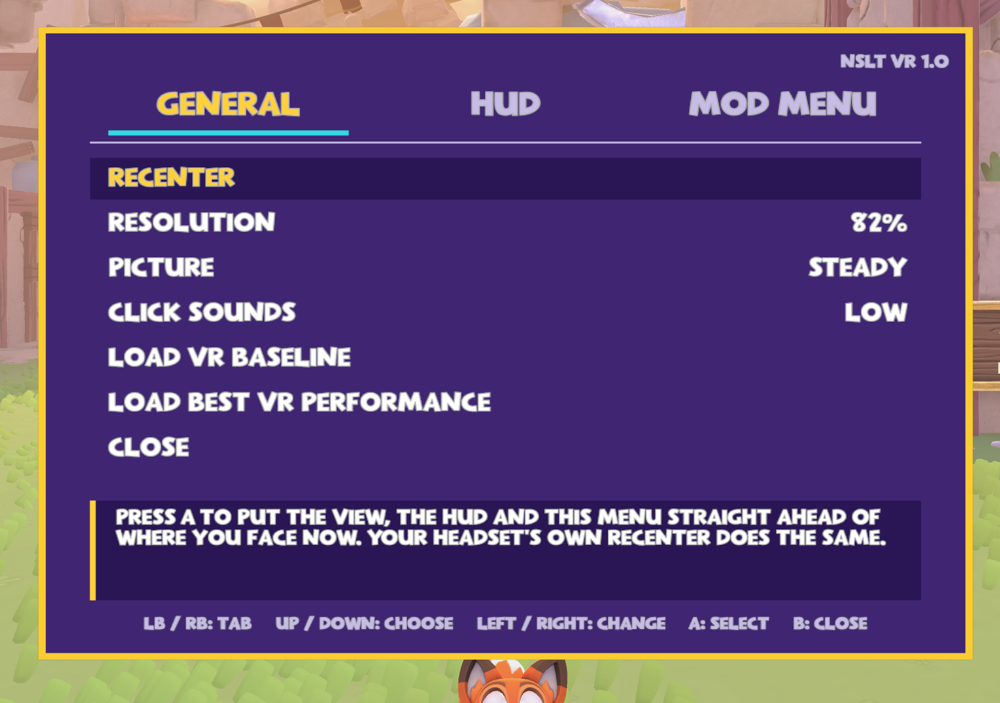
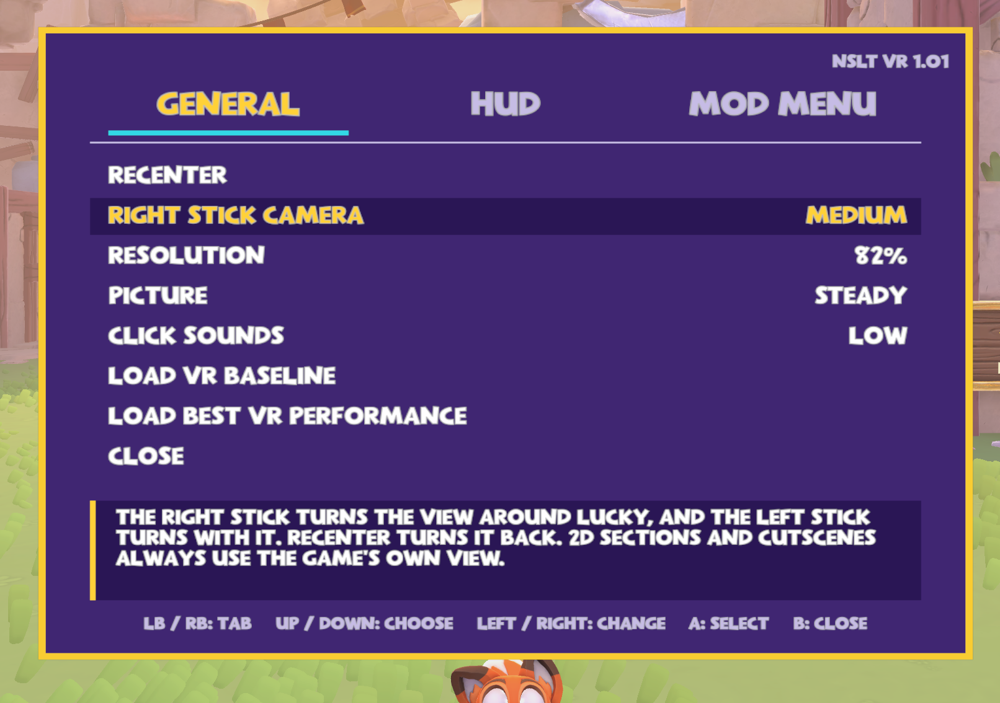
NSLTVR 1.01: right stick camera turns the view around Lucky (render-time orbit, left stick turned to match), menu row Off/Slow/Medium/Fast, default Medium; 8 menu rows; verified by script on RigB, not in a headset

diff --git a/src/Plugin.cs b/src/Plugin.cs
@@ -15,10 +15,10 @@ namespace NSLTVR
     // NSLTVR build 1 (Phase 1): New Super Lucky's Tale on the VR camera rig left over from Lucky's Tale VR, both eyes from
     // one game tick through OpenXR, the HUD on its own panel, and a basic in-headset menu. Skeleton from CupheadVR (MIT,
     // scubasteve2365). Lab probes are read from vrlab_command.txt in the game folder while Lab.Commands is on.
-    [BepInPlugin("com.scubasteve2365.nsltvr", "NSLTVR", "1.0.0")]
+    [BepInPlugin("com.scubasteve2365.nsltvr", "NSLTVR", "1.0.1")]
     public class Plugin : BaseUnityPlugin
     {
-        internal const string Version = "1.0";
+        internal const string Version = "1.01";
         internal static BepInEx.Logging.ManualLogSource Log;
         internal static ConfigEntry<string> CameraRig;
         internal static Plugin Instance;
@@ -45,7 +45,7 @@ namespace NSLTVR
             forcePreset = Config.Bind("Lab", "ForcePreset", "", "Lab only: put the game on this graphics preset at start (graphics_low, graphics_medium, ...). Empty leaves your settings alone.");
             ipdScale = Config.Bind("Lab", "IpdOverride", 0f, "0 uses the game's own camera scale (zone IPDScale). Above 0, use this scale instead.");
             autoStart = Config.Bind("VR", "AutoStart", true, "Start VR by itself once the game is running.");
-            turnSpeed = Config.Bind("VR", "RightStickTurn", 0f, "Right stick turns the camera around Lucky, in degrees a second at full tilt. 0 is off (default): the VR camera was not made to turn and pulled far away when it did (build 4).");
+            turnSpeed = Config.Bind("VR", "RightStickCamera", 90f, "Right stick turns the view around Lucky, in degrees a second at full tilt. 0 is off. 60 slow, 90 medium, 135 fast.");
             CameraRig = Config.Bind("VR", "CameraRig", "VR", "VR: the camera rig left over from Lucky's Tale VR. Flat: the game's normal camera. Read at game start.");
             resolution = Config.Bind("VR", "Resolution", 1.0f, "Eye size as a share of what the headset asks for. 1 is 100%. Used from the next start.");
             bloomOff = Config.Bind("Picture", "BloomOff", true, "Turn off the game's bloom and god rays, which look different in each eye.");
@@ -113,6 +113,8 @@ namespace NSLTVR
                 Rig.Begin();
             }
             PreferPadPatch.Tick();
+            CameraOrbit.MenuOpen = Menu != null && Menu.IsOpen;
+            CameraOrbit.Tick();
             if (Time.frameCount >= nextSlowCheck)
             {
                 nextSlowCheck = Time.frameCount + 120;
@@ -138,7 +140,8 @@ namespace NSLTVR
             Rig.HudWidth = hudWidth.Value; Rig.HudX = hudX.Value; Rig.HudY = hudY.Value; Rig.HudDistance = hudDistance.Value;
             Rig.MenuWidth = menuWidth.Value; Rig.MenuX = menuX.Value; Rig.MenuY = menuY.Value; Rig.MenuDistance = menuDistance.Value;
             Effects.BloomOff = bloomOff.Value;
-            RightStickTurnPatch.DegreesPerSecond = turnSpeed.Value;
+            CameraOrbit.DegreesPerSecond = turnSpeed.Value;
+            if (turnSpeed.Value <= 0f) CameraOrbit.Reset();
             Rig.PictureMode = picture.Value.Equals("Steady", StringComparison.OrdinalIgnoreCase) ? 1 : picture.Value.Equals("Panel", StringComparison.OrdinalIgnoreCase) ? 2 : 0;
         }
 
@@ -163,6 +166,9 @@ namespace NSLTVR
         }
 
         static readonly string[] HudModes = { "Fixed", "FollowsHead", "Hidden" };
+        static readonly float[] TurnSpeeds = { 0f, 60f, 90f, 135f };
+        static float TurnStep(float v) { float best = TurnSpeeds[0]; foreach (var t in TurnSpeeds) if (Mathf.Abs(t - v) < Mathf.Abs(best - v)) best = t; return best; }
+        static string TurnName(float v) { float t = TurnStep(v); return t <= 0f ? "Off" : t <= 60f ? "Slow" : t <= 90f ? "Medium" : "Fast"; }
         string armed, lastSettingsResult;
         float armedUntil;
 
@@ -196,8 +202,16 @@ namespace NSLTVR
         void BuildMenu()
         {
             var general = new MenuUI.Tab { Name = "General" };
-            general.Rows.Add(new MenuUI.Row { Label = "Recenter", Press = () => { Rig.Recenter(); Log.LogInfo("MENU recenter"); },
-                Help = () => "Press A to put the view, the HUD and this menu straight ahead of where you face now. Your headset's own recenter does the same." });
+            general.Rows.Add(new MenuUI.Row { Label = "Recenter", Press = () => { Rig.Recenter(); CameraOrbit.Reset(); Log.LogInfo("MENU recenter"); },
+                Help = () => "Press A to put the view, the HUD and this menu straight ahead of where you face now, and turn the camera back to the game's own view. Your headset's own recenter does the same." });
+            general.Rows.Add(new MenuUI.Row
+            {
+                Label = "Right stick camera",
+                Value = () => TurnName(turnSpeed.Value),
+                Change = dir => { int i = Mathf.Clamp(Array.IndexOf(TurnSpeeds, TurnStep(turnSpeed.Value)) + dir, 0, TurnSpeeds.Length - 1); turnSpeed.Value = TurnSpeeds[i]; PushSettings(); Log.LogInfo("MENU right stick camera " + turnSpeed.Value); },
+                Help = () => turnSpeed.Value <= 0f ? "Off: the right stick does nothing, and the camera is the game's own VR camera."
+                    : "The right stick turns the view around Lucky, and the left stick turns with it. Recenter turns it back. 2D sections and cutscenes always use the game's own view.",
+            });
             general.Rows.Add(new MenuUI.Row
             {
                 Label = "Resolution",
@@ -263,10 +277,10 @@ namespace NSLTVR
             {
                 var p = Playful.SuperLucky.Gameplay.Player.PlayerController.Instance;
                 if (p != null)
-                    Log.LogInfo(string.Format(CultureInfo.InvariantCulture, "TRACK pos ({0:F2},{1:F2}) vel ({2:F2},{3:F2}) raw ({4:F2},{5:F2}) world ({6:F2},{7:F2}) enabled {8} state {9} {10} cam yaw {11:F1} volatility {12:F3}",
+                    Log.LogInfo(string.Format(CultureInfo.InvariantCulture, "TRACK pos ({0:F2},{1:F2}) vel ({2:F2},{3:F2}) raw ({4:F2},{5:F2}) world ({6:F2},{7:F2}) enabled {8} state {9} {10} cam yaw {11:F1} orbit {13:F1} volatility {12:F3}",
                         p.transform.position.x, p.transform.position.z, p.Velocity.x, p.Velocity.z, p.Input.RawInput.x, p.Input.RawInput.y,
                         p.Input.WorldSpaceInput.x, p.Input.WorldSpaceInput.z, p.Input.InputEnabled, p.ControllerState, p.MoveState,
-                        CameraManager.Instance != null && CameraManager.Instance.GetCameraGameObject() != null ? CameraManager.Instance.GetCameraGameObject().transform.eulerAngles.y : -1f, p.Input.InputVolatility));
+                        CameraManager.Instance != null && CameraManager.Instance.GetCameraGameObject() != null ? CameraManager.Instance.GetCameraGameObject().transform.eulerAngles.y : -1f, p.Input.InputVolatility, CameraOrbit.Yaw));
                 yield return wait;
             }
         }
@@ -305,7 +319,8 @@ namespace NSLTVR
                 case "stamp": Rig.Stamp = a.Length < 2 || a[1] != "0"; break;
                 case "ipd": Rig.IpdOverride = F(a[1]); Log.LogInfo("IPD override " + Rig.IpdOverride); break;
                 case "fakehead": Rig.LabHead = new Vector3(F(a[1]), F(a[2]), F(a[3])); break;
-                case "recenter": Rig.Recenter(); break;
+                case "recenter": Rig.Recenter(); CameraOrbit.Reset(); break;
+                case "orbit": CameraOrbit.Yaw = F(a[1]); Log.LogInfo("ORBIT lab set " + CameraOrbit.Yaw); break;
                 case "menu": Menu.LabKey(a.Length > 1 ? a[1] : "open"); break;
                 case "speedlog": Speed.Begin(a.Length > 1 ? F(a[1]) : 5f); break;
                 case "gfx": Probes.Graphics(); break;

diff --git a/src/InputFix.cs b/src/InputFix.cs
@@ -1,4 +1,7 @@
+using System.Collections.Generic;
 using System.Globalization;
+using System.Reflection;
+using System.Reflection.Emit;
 using System.Linq;
 using HarmonyLib;
 using Playful.SuperLucky.Camera;
@@ -72,27 +75,78 @@ namespace NSLTVR
         }
     }
 
-    // Right stick: turn the VR camera rig around Lucky. CurveTrackingCamera places the camera at Lucky plus its own rotation
-    // times the zone's offset, so turning the rig's yaw orbits it around him, and the left stick follows (the game takes
-    // stick directions from the camera's right vector).
-    [HarmonyPatch(typeof(CurveTrackingCamera), nameof(CurveTrackingCamera.DoMotorUpdate))]
-    static class RightStickTurnPatch
+    // Right stick camera (1.01, Steve): turn the view around Lucky.
+    // Build 4 rotated the game's VR camera motor (CurveTrackingCamera) itself, and that went wrong: the motor assumes it faces
+    // +z (its "too close" check measures only the z distance to Lucky and pushes the camera back along its own forward, so a
+    // turned camera kept backing away: Steve's "zooms out really far"), and camera zones clamp its position to boxes made for
+    // the front view. Now the game's camera is left exactly as the game moves it, and only the view is turned: the eyes orbit
+    // Lucky by the turn angle when they are drawn, and the left stick is turned by the same angle, so up still runs away from
+    // you. Cutscene cameras and 2D sections are never turned (2D sections ease back to straight).
+    internal static class CameraOrbit
     {
-        internal static float DegreesPerSecond = 0f;
+        internal static float DegreesPerSecond = 90f;
+        internal static float Yaw;
+        internal static bool MenuOpen;
         static int logged;
+        static float lastLog;
 
-        static void Prefix(CurveTrackingCamera __instance)
+        internal static void Tick()
         {
-            if (DegreesPerSecond <= 0f || !GameConfiguration.InVrCameraMode()) return;
+            if (DegreesPerSecond <= 0f || !GameConfiguration.InVrCameraMode()) { Yaw = 0f; return; }
             var player = Playful.SuperLucky.Gameplay.Player.PlayerController.Instance;
-            if (player == null || player.Input == null || !player.Input.InputEnabled) return;
+            if (player == null) return;
+            float dt = Mathf.Min(Time.unscaledDeltaTime, 0.1f);
+            if (player.Use2DMovement()) { Yaw = Mathf.MoveTowardsAngle(Yaw, 0f, 180f * dt); return; }
+            if (MenuOpen || player.Input == null || !player.Input.InputEnabled) return;
             float x = GlobalInputManager.RightStick.Value.x;
             if (Mathf.Abs(x) < 0.2f) return;
             var settings = PersistentSettings.Instance;
             if (settings != null && settings.HorizontalCameraInputInverted) x = -x;
-            float sign = Mathf.Sign(x), mag = (Mathf.Abs(x) - 0.2f) / 0.8f;
-            __instance.transform.Rotate(Vector3.up, sign * mag * DegreesPerSecond * Time.unscaledDeltaTime, Space.World);
-            if (logged++ == 0) Plugin.Log.LogInfo("HOOK CurveTrackingCamera: right stick turns the VR camera around Lucky (" + DegreesPerSecond + " degrees a second at full tilt)");
+            float mag = (Mathf.Abs(x) - 0.2f) / 0.8f;
+            Yaw = Mathf.Repeat(Yaw + Mathf.Sign(x) * mag * mag * DegreesPerSecond * dt + 180f, 360f) - 180f;
+            if (logged++ == 0 || Time.unscaledTime > lastLog + 2f)
+            {
+                lastLog = Time.unscaledTime;
+                Plugin.Log.LogInfo(string.Format(CultureInfo.InvariantCulture, "ORBIT right stick turns the view around Lucky: {0:F0} degrees ({1} degrees a second at full tilt)", Yaw, DegreesPerSecond));
+            }
+        }
+
+        internal static void Reset() { if (Yaw != 0f) Plugin.Log.LogInfo("ORBIT view turned back to the game's own camera"); Yaw = 0f; }
+
+        // From XrRig.Origin: turn the eye origin around Lucky, only for the game's own VR camera.
+        internal static void Apply(Camera cam, ref Vector3 pos, ref Quaternion rot)
+        {
+            if (Yaw == 0f || cam == null) return;
+            var cm = CameraManager.Instance;
+            var player = Playful.SuperLucky.Gameplay.Player.PlayerController.Instance;
+            if (cm == null || player == null || cm.GetCameraGameObject() != cam.gameObject) return;
+            var q = Quaternion.Euler(0f, Yaw, 0f);
+            var pivot = player.transform.position;
+            pos = pivot + q * (pos - pivot);
+            rot = q * rot;
+        }
+
+        // PlayerInputManager.Update takes stick directions from the camera's right vector; turn it with the view.
+        internal static Vector3 TurnInput(Vector3 right)
+        {
+            return Yaw == 0f ? right : Quaternion.Euler(0f, Yaw, 0f) * right;
+        }
+    }
+
+    [HarmonyPatch(typeof(PlayerInputManager), "Update")]
+    static class OrbitInputPatch
+    {
+        static IEnumerable<CodeInstruction> Transpiler(IEnumerable<CodeInstruction> code)
+        {
+            var getRight = AccessTools.PropertyGetter(typeof(Transform), nameof(Transform.right));
+            var turn = AccessTools.Method(typeof(CameraOrbit), nameof(CameraOrbit.TurnInput));
+            int n = 0;
+            foreach (var c in code)
+            {
+                yield return c;
+                if (n == 0 && c.operand is MethodInfo mi && mi == getRight) { n++; yield return new CodeInstruction(OpCodes.Call, turn); }
+            }
+            Plugin.Log.LogInfo("HOOK PlayerInputManager.Update: stick directions follow the right stick camera (" + n + " place)");
         }
     }
 }

diff --git a/src/MenuUI.cs b/src/MenuUI.cs
@@ -35,7 +35,7 @@ namespace NSLTVR
         const int Layer = 31;
         const float HoldToOpen = 0.5f;
         internal const int TexW = 1024, TexH = 800;
-        const int MaxRows = 7;
+        const int MaxRows = 8;
         static readonly Color Card = new Color(0.25f, 0.16f, 0.45f, 1f);
         static readonly Color CardDark = new Color(0.17f, 0.10f, 0.33f, 1f);
         static readonly Color Edge = new Color(0.98f, 0.80f, 0.20f, 1f);
@@ -230,9 +230,9 @@ namespace NSLTVR
             for (int i = 0; i < MaxRows; i++)
             {
                 float y = RowY(i);
-                rowBar[i] = Img(CardDark, 900, 52, 0, y);
-                labels[i] = Txt(font, 32, Text, TextAnchor.MiddleLeft, 560, 52, -150, y);
-                values[i] = Txt(font, 32, Text, TextAnchor.MiddleRight, 420, 52, 225, y);
+                rowBar[i] = Img(CardDark, 900, 46, 0, y);
+                labels[i] = Txt(font, 30, Text, TextAnchor.MiddleLeft, 560, 46, -150, y);
+                values[i] = Txt(font, 30, Text, TextAnchor.MiddleRight, 420, 46, 225, y);
             }
             Img(CardDark, 900, 124, 0, -258);
             Img(Gold, 6, 124, -447, -258);
@@ -249,7 +249,7 @@ namespace NSLTVR
             return true;
         }
 
-        static float RowY(int row) { return 205f - row * 56f; }
+        static float RowY(int row) { return 208f - row * 50f; }
 
         Image Img(Color c, float w, float h, float x, float y)
         {

diff --git a/src/XrRig.cs b/src/XrRig.cs
@@ -427,6 +427,7 @@ namespace NSLTVR
                 lastRig = "Flat";
             }
             if (IpdOverride > 0f) scale = IpdOverride;
+            if (Plugin.WantVrRig) CameraOrbit.Apply(cam, ref pos, ref rot);
             if (Mathf.Abs(scale - lastScale) > 0.0005f)
             {
                 lastScale = scale;

diff --git a/install/make_package.py b/install/make_package.py
@@ -10,7 +10,7 @@ import shutil
 import sys
 import zipfile
 
-VERSION = "1.0"
+VERSION = "1.01"
 HERE = os.path.dirname(os.path.abspath(__file__))
 BUILD = os.path.normpath(os.path.join(HERE, "..", "..", "build"))
 PKG = os.path.join(BUILD, "package", "NSLTVR")

diff --git a/README.md b/README.md
@@ -2,7 +2,7 @@
 
 VR mod for **New Super Lucky's Tale** (Steam). The game runs on the VR camera it inherited from Lucky's Tale VR: each level is a toy world built around you, and Lucky runs through it in front of you. Native stereo, played seated with a gamepad.
 
-**Download:** [NSLTVR-1.0.zip](https://github.com/scubasteve2365/NSLTVR/releases/latest) from Releases.
+**Download:** [NSLTVR-1.01.zip](https://github.com/scubasteve2365/NSLTVR/releases/latest) from Releases.
 
 **Support:** if you enjoy it, you can [buy me a coffee](https://buymeacoffee.com/scubasteve2365).
 
@@ -21,7 +21,7 @@ VR mod for **New Super Lucky's Tale** (Steam). The game runs on the VR camera it
 
 ## Install
 
-1. Download `NSLTVR-1.0.zip` from Releases and unzip it anywhere.
+1. Download `NSLTVR-1.01.zip` from Releases and unzip it anywhere.
 2. Double click `Install NSLTVR.bat` and type 1. Windows may ask you to confirm, because the bat file is not signed. It is plain text if you want to read it first.
 3. Start SteamVR or connect Virtual Desktop, then start New Super Lucky's Tale from Steam. VR starts by itself.
 
@@ -31,7 +31,7 @@ To uninstall, run the bat again and type 2.
 
 Hold both sticks down for half a second, or press Insert, to open the menu. LB and RB change tab, up and down choose, left and right change, A selects, B closes. Every row explains itself at the bottom of the menu. Settings save at once.
 
-**General:** Recenter, Resolution (applies next start), Picture (Auto, Steady, Panel), Click sounds, Load VR baseline, Load best VR performance.
+**General:** Recenter, Right stick camera (Off, Slow, Medium, Fast), Resolution (applies next start), Picture (Auto, Steady, Panel), Click sounds, Load VR baseline, Load best VR performance.
 
 ![General tab](docs/menu_general.png)
 
@@ -59,7 +59,7 @@ The mod turns off VSync and the frame cap while VR runs (it paces the game to yo
 
 - Steam version only.
 - No motion controls. A gamepad is required.
-- The camera is the game's own VR camera, so the right stick does not turn it.
+- The right stick turns the view around Lucky (new in 1.01, on by default, Medium speed). The game's own camera still does the following; the mod only turns your view, and the left stick turns with it. Recenter turns it back. 2D sections and cutscenes always use the game's own view. Turn it off in the General tab if you prefer the fixed Lucky's Tale VR view. Levels were built to be seen from the front, so from other angles you may see unfinished backs of scenery.
 - Screens the game shows without its 3D camera (title, loading, the costume shop) appear on a big flat screen in front of you.
 - No DLSS or other upscaler. The game is light and does not need one.
 - Tested on a Pimax Dream Air through SteamVR at 72 Hz and a Meta Quest 3 through Virtual Desktop (VDXR) at 90 Hz, both with an RTX 5090. Other headsets should work through OpenXR but have not been tried. AMD and Intel graphics have not been tried.
